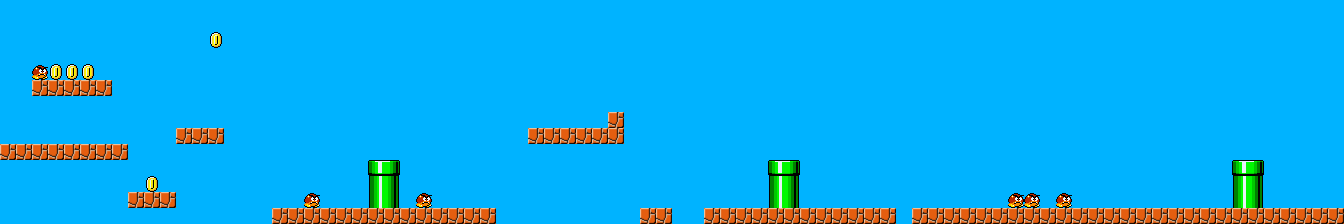
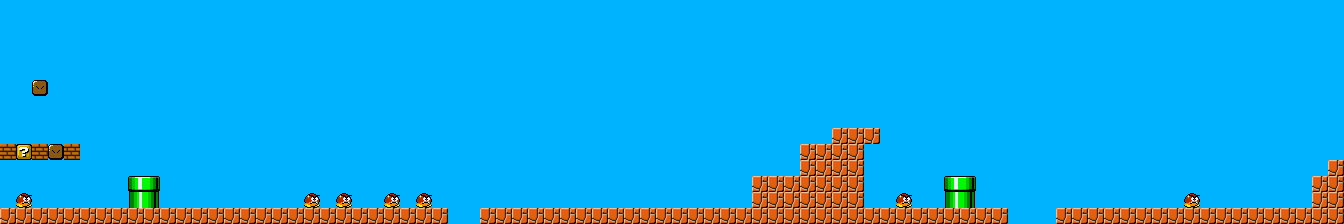
npy

diff --git a/CDCGAN/demo_lse.py b/CDCGAN/demo_lse.py
@@ -25,7 +25,7 @@ if __name__ == "__main__":
         "trained_models/netG_epoch_300000_0_32.pth"))
     mario_map = get_asset_map(game="mario")
     gen = GameImageGenerator(asset_map=mario_map)
-    prev_frame, curr_frame = dataset[[321]]  # 51
+    prev_frame, curr_frame = dataset[[20]]  # 51
     fixer = PipeFixer()
     level_gen = getLevel(netG, gen, fixer, prev_frame,
                          curr_frame, conditional_channels)
@@ -33,21 +33,22 @@ if __name__ == "__main__":
     noise_params = (
         np.load("underground_params.npy"),
         #np.load("best_sky_tile_member.npy"),
-        np.load("best_member.npy"),
+        np.load("best_sky_tile_member.npy"),
         np.zeros((196,)),
     )
     features = ["Underground Level", "More Sky Tiles", "Random Noise"]
-    file_name = "random_level"
+    file_name = "easier_level"
     while True:
         selection = SelectionMenu.get_selection(
             features, title="Select the features you would like to generate:",
         )
-        var = 0.07 if selection != 2 else 1
+        var = 0.02 if selection != 2 else 0.5
         try:
             noise = noise_params[selection]
             level = level_gen.generate_frames(noise, var=var, frame_count=1)
             level_gen.save_full_level_pkl(file_name)
             level_gen.save_full_level_rom(file_name)
+            level_gen.save_full_level_np(file_name)
             level_gen.gen.save_gen_level(img_name=file_name) # this saves images
         except IndexError:
             break

diff --git a/CDCGAN/get_level.py b/CDCGAN/get_level.py
@@ -101,6 +101,11 @@ class GetLevel:
                  for element in row:
                      file.write(struct.pack(data_format, element))
 
+    def save_full_level_np(self,file_name):
+        matrix = self.full_level
+        np.save(file_name+"14"+".npy", matrix)
+        matrix = matrix[1:,:]
+        np.save(file_name+"13"+".npy", self.full_level)
 
 if __name__ == "__main__":
     conditional_channels = [0,1,2,5,6,7]  # channels on which generator is conditioned on
